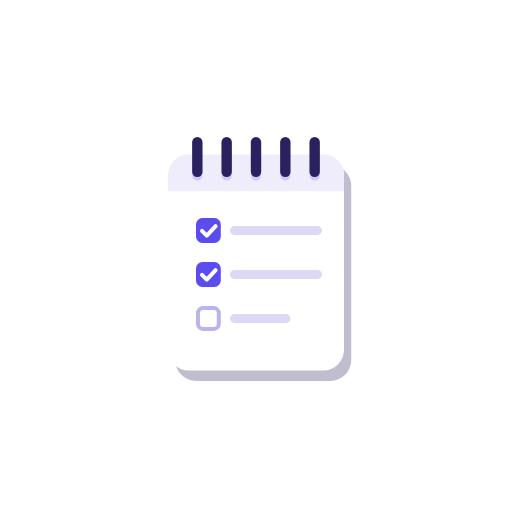
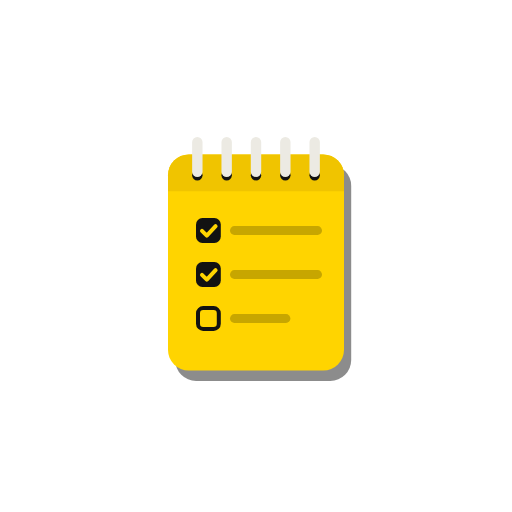
Sarı siyah renk teması ve simge
Vurgu rengi sarı, metin ve vurgulu simgeler açık modda siyah, karanlık
modda sarı. Sarı dolgular üzerinde siyah yazı kullanılıyor; beyaz zeminde
okunmayan sarı yazı yerine yeni `tint` rengi. Simge ve açılış ekranı siyah
zeminde sarı not defteri.

Claude-Session: https://claude.ai/code/session_0118whHZ8LyFakLboJQdvFzu

Changed region(s): [[0.3125, 0.25, 0.6875, 0.75]]

diff --git a/mobil/src/lib/theme.ts b/mobil/src/lib/theme.ts
@@ -1,38 +1,41 @@
 import { useColorScheme } from 'react-native';
 
-// Same palette as the web prototype (public/styles.css).
+// Yellow and black. `accent` fills (chips, buttons, selected day) with `onAccent` text on
+// top; `tint` is for highlighted text and icons, because yellow text is unreadable on white.
 const light = {
-  bg: '#F4F3FF',
+  bg: '#F6F5F1',
   card: '#FFFFFF',
-  card2: '#F6F5FD',
-  text: '#16142B',
-  muted: '#77748F',
-  line: '#E9E7F5',
-  accent: '#5B4CF0',
-  accentSoft: '#ECEBFF',
-  onAccent: '#FFFFFF',
-  danger: '#E5484D',
-  dangerSoft: '#FDECEC',
-  success: '#2F9E63',
-  priority: ['transparent', '#9CA3AF', '#5B4CF0', '#F76B15'],
-  shadow: 'rgba(22, 20, 43, 0.08)',
+  card2: '#F1EFE8',
+  text: '#121212',
+  muted: '#6E6A60',
+  line: '#E6E3DA',
+  accent: '#FFD400',
+  accentSoft: '#FFF3B8',
+  onAccent: '#121212',
+  tint: '#121212',
+  danger: '#D93636',
+  dangerSoft: '#FCE9E9',
+  success: '#1F9D55',
+  priority: ['transparent', '#A8A29E', '#F5B700', '#E5484D'],
+  shadow: 'rgba(18, 18, 18, 0.08)',
 };
 
 const dark: typeof light = {
-  bg: '#0E0D16',
-  card: '#1A1928',
-  card2: '#232235',
-  text: '#F2F1FA',
-  muted: '#9A97B3',
-  line: '#2B2A40',
-  accent: '#8F84FF',
-  accentSoft: '#29264D',
-  onAccent: '#FFFFFF',
-  danger: '#FF6B6F',
-  dangerSoft: '#3A1C22',
+  bg: '#0B0B0B',
+  card: '#171717',
+  card2: '#232323',
+  text: '#F5F4EF',
+  muted: '#9A968C',
+  line: '#2A2A2A',
+  accent: '#FFD400',
+  accentSoft: '#3A3100',
+  onAccent: '#121212',
+  tint: '#FFD400',
+  danger: '#FF6B6B',
+  dangerSoft: '#3A1C1C',
   success: '#4CC38A',
-  priority: ['transparent', '#6B7280', '#8F84FF', '#FF8A3D'],
-  shadow: 'rgba(0, 0, 0, 0.3)',
+  priority: ['transparent', '#6B6B6B', '#FFD400', '#FF6B6B'],
+  shadow: 'rgba(0, 0, 0, 0.4)',
 };
 
 export type Theme = typeof light;

diff --git a/mobil/src/app/_layout.tsx b/mobil/src/app/_layout.tsx
@@ -11,9 +11,9 @@ export default function RootLayout() {
   const t = useTheme();
   const nav = scheme === 'dark' ? DarkTheme : DefaultTheme;
   return (
-    <ThemeProvider value={{ ...nav, colors: { ...nav.colors, background: t.bg, card: t.card, primary: t.accent, text: t.text, border: t.line } }}>
+    <ThemeProvider value={{ ...nav, colors: { ...nav.colors, background: t.bg, card: t.card, primary: t.tint, text: t.text, border: t.line } }}>
       <StoreProvider>
-        <Stack screenOptions={{ headerShadowVisible: false, headerStyle: { backgroundColor: t.bg }, headerTintColor: t.accent, headerTitleStyle: { color: t.text } }}>
+        <Stack screenOptions={{ headerShadowVisible: false, headerStyle: { backgroundColor: t.bg }, headerTintColor: t.tint, headerTitleStyle: { color: t.text } }}>
           <Stack.Screen name="(tabs)" options={{ headerShown: false }} />
           <Stack.Screen name="is" options={{ presentation: 'modal', headerShown: false }} />
           <Stack.Screen name="ayarlar" options={{ title: 'Ayarlar', headerBackTitle: 'Geri' }} />

diff --git a/mobil/src/components/MonthGrid.tsx b/mobil/src/components/MonthGrid.tsx
@@ -53,7 +53,7 @@ export function MonthGrid({ year, month, selected, today, onSelect, onMonth, dot
           return (
             <Pressable key={key} onPress={() => onSelect(key)} style={styles.cell} accessibilityLabel={key}>
               <View style={[styles.day, isSel && { backgroundColor: t.accent }, !isSel && isToday && { backgroundColor: t.accentSoft }]}>
-                <Text style={[styles.dayText, { color: isSel ? t.onAccent : isToday ? t.accent : key < today ? t.muted : t.text }, (isSel || isToday) && styles.bold]}>
+                <Text style={[styles.dayText, { color: isSel ? t.onAccent : isToday ? t.tint : key < today ? t.muted : t.text }, (isSel || isToday) && styles.bold]}>
                   {Number(key.slice(8))}
                 </Text>
               </View>

diff --git a/mobil/src/components/TaskRow.tsx b/mobil/src/components/TaskRow.tsx
@@ -74,8 +74,8 @@ export function DoneRow({ title, sub, onUndo }: { title: string; sub?: string; o
       style={({ pressed }) => [styles.row, { borderBottomColor: t.line, opacity: pressed ? 0.6 : 1 }]}
     >
       <View style={styles.bar} />
-      <View style={[styles.check, styles.checkDone, { backgroundColor: t.success, borderColor: t.success }]}>
-        <Icon name="check" size={14} color="#fff" strokeWidth={2.6} />
+      <View style={[styles.check, styles.checkDone, { backgroundColor: t.tint, borderColor: t.tint }]}>
+        <Icon name="check" size={14} color={t.card} strokeWidth={2.6} />
       </View>
       <View style={styles.body}>
         <Text style={[styles.title, styles.doneTitle, { color: t.muted }]} numberOfLines={2}>

diff --git a/mobil/src/app/is.tsx b/mobil/src/app/is.tsx
@@ -99,7 +99,7 @@ export default function TaskForm() {
         </Pressable>
         <Text style={[styles.barTitle, { color: t.text }]}>{existing ? 'İşi düzenle' : 'Yeni iş'}</Text>
         <Pressable onPress={submit} hitSlop={10} disabled={!task.title.trim()}>
-          <Text style={[styles.barBtn, styles.bold, { color: task.title.trim() ? t.accent : t.muted }]}>Kaydet</Text>
+          <Text style={[styles.barBtn, styles.bold, { color: task.title.trim() ? t.tint : t.muted }]}>Kaydet</Text>
         </Pressable>
       </View>
 

diff --git a/mobil/src/app/(tabs)/takvim.tsx b/mobil/src/app/(tabs)/takvim.tsx
@@ -34,7 +34,7 @@ export default function CalendarScreen() {
 
   const dots = (key: string): string[] => {
     const open = tasks.filter((x) => occursOn(x, key));
-    const colors = open.sort((a, b) => b.priority - a.priority).map((x) => (x.priority >= 2 ? t.priority[x.priority] : t.accent));
+    const colors = open.sort((a, b) => b.priority - a.priority).map((x) => (x.priority >= 2 ? t.priority[x.priority] : t.tint));
     if (doneByDay.has(key)) colors.push(t.success);
     return colors;
   };

diff --git a/mobil/src/app/(tabs)/_layout.tsx b/mobil/src/app/(tabs)/_layout.tsx
@@ -9,7 +9,7 @@ export default function TabsLayout() {
     <Tabs
       screenOptions={{
         headerShown: false,
-        tabBarActiveTintColor: t.accent,
+        tabBarActiveTintColor: t.tint,
         tabBarInactiveTintColor: t.muted,
         tabBarStyle: { backgroundColor: t.card, borderTopColor: t.line },
         tabBarLabelStyle: { fontSize: 11, fontWeight: '600' },

diff --git a/mobil/src/app/(tabs)/index.tsx b/mobil/src/app/(tabs)/index.tsx
@@ -60,7 +60,7 @@ export default function TodayScreen() {
         </View>
 
         <Card inner={styles.quick}>
-          <Icon name="plus" size={20} color={t.accent} />
+          <Icon name="plus" size={20} color={t.tint} />
           <TextInput
             value={quick}
             onChangeText={setQuick}
